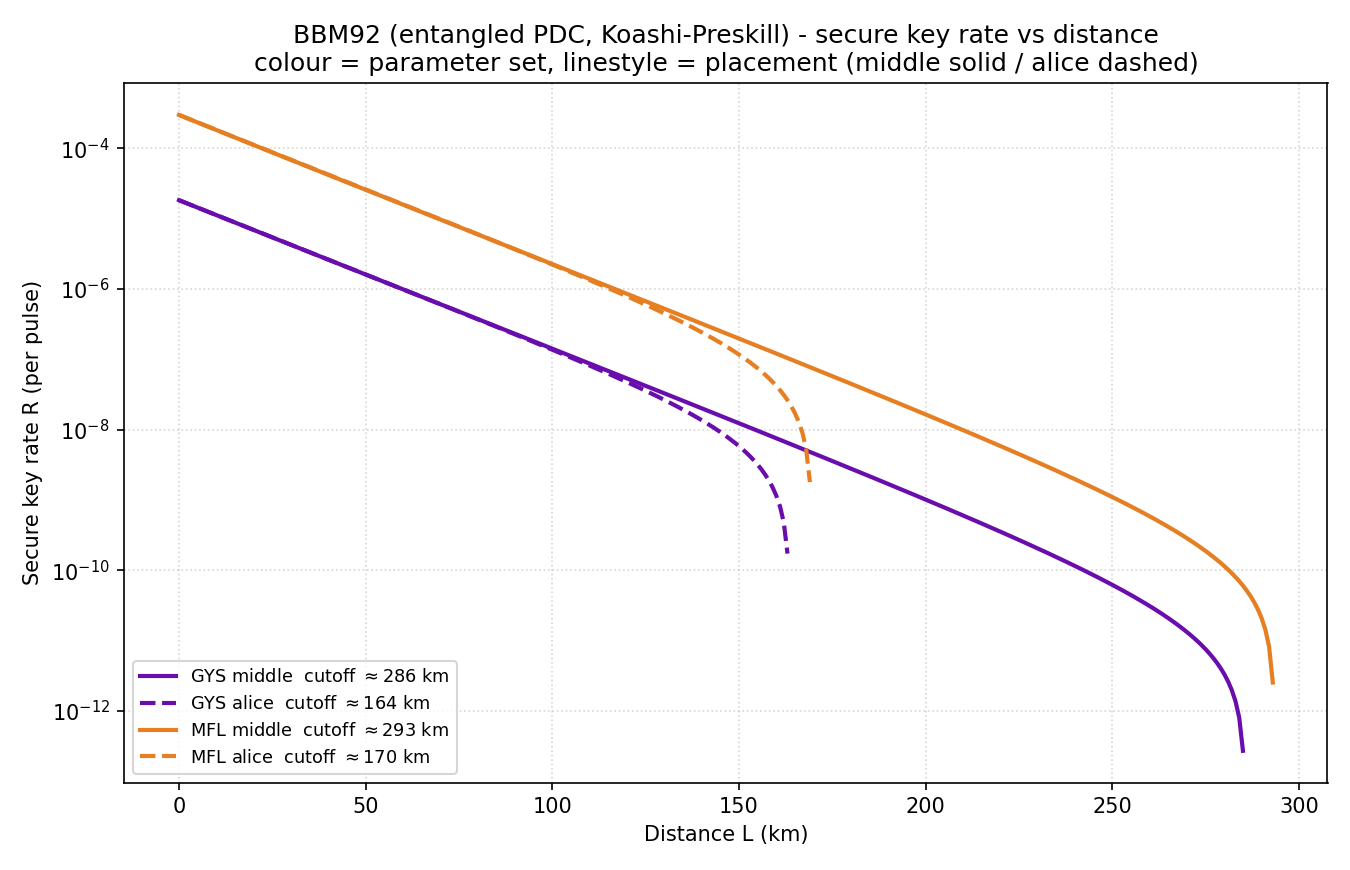
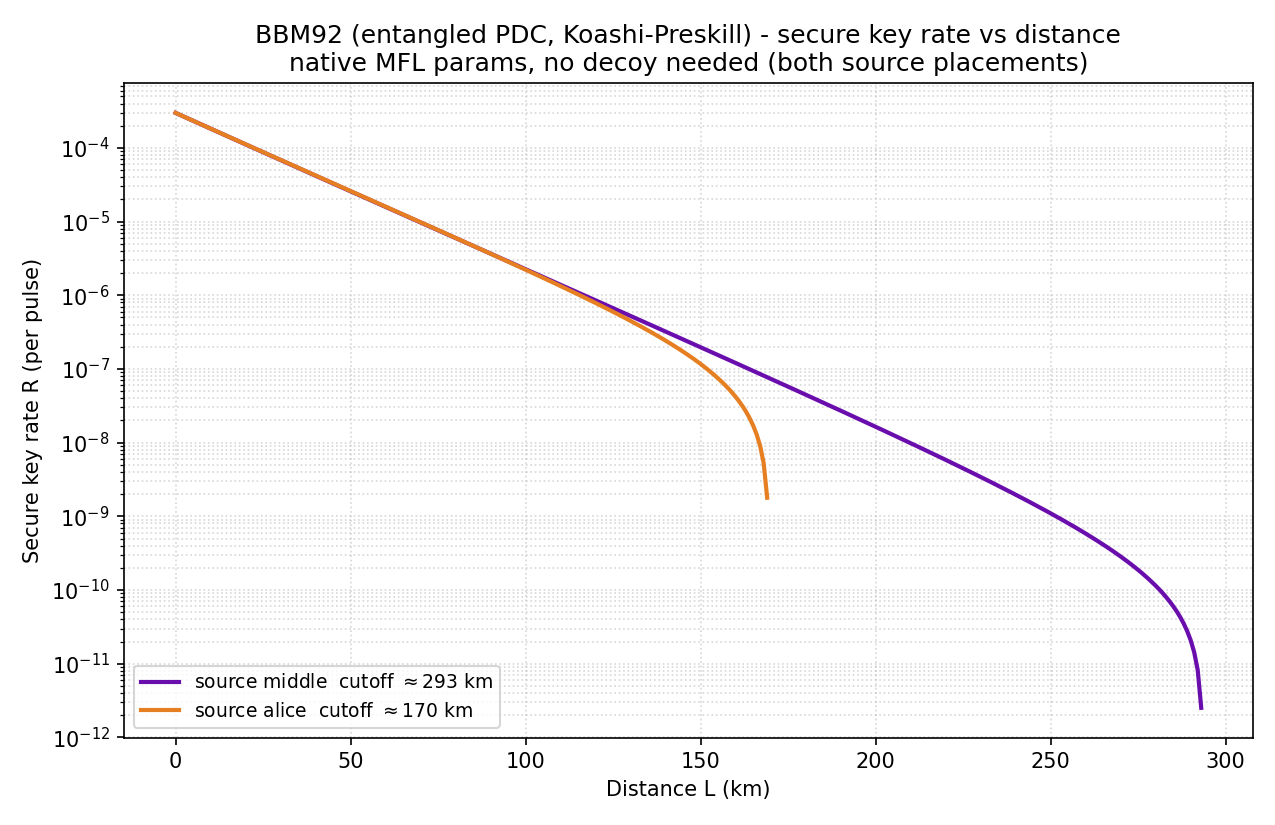
Graphs MFL-only for BBM92/E91; add GYS tables; big grid table gains BBM92 middle
BBM92 and E91 figures now show only the native MFL params (both placements), per
request. Each gains a rendered table (bbm92_table.png, e91_table.png) that DOES
include GYS, so the hardware effect stays available numerically off-plot.

Big grid table (grid_table.png) now has three rows: BB84 decoy, BBM92 alice,
BBM92 middle -- all mu-optimized, GYS/MFL super-columns. BBM92 middle reaches
286.5 (GYS) / 293.5 (MFL) km vs alice 170.9/174.5. Grid figure unchanged
(BB84 + BBM92 alice), as only the table was requested.

diff --git a/src/bbm92/sweep.py b/src/bbm92/sweep.py
@@ -1,15 +1,14 @@
 """
-Distance sweep + plot for BBM92 (entangled PDC, Koashi-Preskill rate).
+Distance sweep + plot + table for BBM92 (entangled PDC, Koashi-Preskill rate).
 
-Sweeps the single free variable -- distance L -- and plots the SECURE key rate
-R vs L for BOTH source placements (middle vs Alice) AND both parameter sets
-(GYS, MFL). mu, f, q are fixed at the model.py defaults (native BBM92 mu).
+Sweeps distance L. The FIGURE shows only the native MFL parameters (both source
+placements, middle vs Alice). The TABLE additionally reports the GYS parameter
+set, so the hardware effect is available numerically without cluttering the
+plot. mu, f, q are fixed at the model.py defaults (native BBM92 mu).
 
-No decoy curve here: BBM92 needs none -- the basis-independent source is
-intrinsically PNS-resistant (see model.py). Colour encodes the parameter set,
-linestyle the source geometry, so the figure shows two independent effects at
-once: hardware (GYS vs MFL) and loss geometry (middle reaches ~2x farther than
-Alice because dark counts compete per arm and middle halves each arm's loss).
+No decoy curve: BBM92 needs none -- the basis-independent source is intrinsically
+PNS-resistant (see model.py). Middle geometry reaches ~2x farther than Alice
+because dark counts compete per arm and middle halves each arm's loss.
 """
 
 import os
@@ -22,6 +21,7 @@ _SRC = os.path.dirname(os.path.dirname(os.path.abspath(__file__)))
 REPO_ROOT = os.path.dirname(_SRC)
 sys.path.insert(0, _SRC)
 OUTFILE = os.path.join(REPO_ROOT, "figures", "bbm92_key_rate.png")
+TABLE_OUTFILE = os.path.join(REPO_ROOT, "figures", "bbm92_table.png")
 
 from model import bbm92_key_rate
 from shared import GYS, MFL
@@ -47,34 +47,57 @@ def cutoff_distance(L_km, R):
     return L_km[i] + R[i] / (R[i] - R[i + 1]) * (L_km[i + 1] - L_km[i])
 
 
-# COLOUR encodes the parameter set, LINESTYLE encodes the source placement.
-CURVES = [
-    (GYS, "middle", "#6a0dad", "-"),
-    (GYS, "alice",  "#6a0dad", "--"),
-    (MFL, "middle", "#e67e22", "-"),
-    (MFL, "alice",  "#e67e22", "--"),
-]
+# Figure: NATIVE MFL only, both placements (colour distinguishes placement).
+GRAPH = [("middle", "#6a0dad", "-"), ("alice", "#e67e22", "-")]
 
 
 def plot_bbm92(L_km, outfile=OUTFILE):
-    """Plot all four curves on a log-y axis; mask R <= 0 so each ends at its cutoff."""
-    fig, ax = plt.subplots(figsize=(9.0, 5.8))
-    for params, placement, color, ls in CURVES:
-        R = sweep_bbm92(L_km, placement, params)
+    """Plot the two native-MFL curves on a log-y axis; mask R <= 0 at the cutoff."""
+    fig, ax = plt.subplots(figsize=(8.5, 5.5))
+    for placement, color, ls in GRAPH:
+        R = sweep_bbm92(L_km, placement, MFL)
         c = cutoff_distance(L_km, R)
         Rmask = np.where(R > 0, R, np.nan)
         ax.semilogy(L_km, Rmask, color=color, ls=ls, lw=2,
-                    label=f"{params.name} {placement}  cutoff $\\approx${c:.0f} km")
-        print(f"{params.name} @{placement}: cutoff ~ {c:.1f} km")
-
+                    label=f"source {placement}  cutoff $\\approx${c:.0f} km")
     ax.set_xlabel("Distance L (km)")
     ax.set_ylabel("Secure key rate R (per pulse)")
     ax.set_title("BBM92 (entangled PDC, Koashi-Preskill) - secure key rate vs distance\n"
-                 "colour = parameter set, linestyle = placement (middle solid / alice dashed)")
+                 "native MFL params, no decoy needed (both source placements)")
     ax.grid(True, which="both", ls=":", alpha=0.5)
-    ax.legend(loc="lower left", fontsize=8.5)
+    ax.legend(loc="lower left", fontsize=9)
     fig.tight_layout()
     fig.savefig(outfile, dpi=150)
+    print(f"saved {outfile}")
+    return fig
+
+
+def plot_table(L_km, outfile=TABLE_OUTFILE):
+    """Table: GYS and MFL, R(L=0) and the cutoff for each placement."""
+    col_labels = ["Params", "R(L=0)", "cutoff\n(middle)", "cutoff\n(alice)"]
+    cells = []
+    for params in (MFL, GYS):
+        R0 = bbm92_key_rate(0.0, "middle", eta_det=params.eta_det,
+                            ed=params.e_det, y0=params.dark)   # same at L=0 either placement
+        c_mid = cutoff_distance(L_km, sweep_bbm92(L_km, "middle", params))
+        c_ali = cutoff_distance(L_km, sweep_bbm92(L_km, "alice", params))
+        cells.append([params.name, f"{R0:.2e}", f"{c_mid:.1f} km", f"{c_ali:.1f} km"])
+
+    fig, ax = plt.subplots(figsize=(7.5, 1.7))
+    ax.axis("off")
+    tbl = ax.table(cellText=cells, colLabels=col_labels, loc="center", cellLoc="center")
+    tbl.auto_set_font_size(False)
+    tbl.set_fontsize(10)
+    tbl.scale(1.0, 2.2)
+    for (r, c), cell in tbl.get_celld().items():
+        if r == 0:
+            cell.set_facecolor("#6a0dad"); cell.set_text_props(color="white", weight="bold")
+        elif c == 0:
+            cell.set_text_props(weight="bold")
+    ax.set_title("BBM92 secure key rate & reach (native MFL vs GYS hardware)",
+                 fontsize=10, pad=10)
+    fig.tight_layout()
+    fig.savefig(outfile, dpi=150, bbox_inches="tight")
     print(f"saved {outfile}")
     return fig
 
@@ -82,3 +105,9 @@ def plot_bbm92(L_km, outfile=OUTFILE):
 if __name__ == "__main__":
     L_km = np.linspace(L_MIN_KM, L_MAX_KM, L_POINTS)
     plot_bbm92(L_km)
+    plot_table(L_km)
+    print("\nBBM92 cutoffs (km):")
+    for params in (MFL, GYS):
+        for placement in ("middle", "alice"):
+            c = cutoff_distance(L_km, sweep_bbm92(L_km, placement, params))
+            print(f"  {params.name} @{placement}: {c:.1f}")

diff --git a/src/e91/sweep.py b/src/e91/sweep.py
@@ -30,10 +30,11 @@ REPO_ROOT = os.path.dirname(_SRC)
 sys.path.insert(0, os.path.join(_SRC, "bbm92"))
 sys.path.insert(0, _SRC)
 
-from chsh import S_of_distance, S_TSIRELSON
+from chsh import S_of_distance, S_TSIRELSON, chsh_S, qber_bbm92
 from shared import GYS, MFL
 
 OUTFILE = os.path.join(REPO_ROOT, "figures", "e91_chsh_S.png")
+TABLE_OUTFILE = os.path.join(REPO_ROOT, "figures", "e91_table.png")
 
 L_MAX_KM = 360.0
 L_POINTS = 361
@@ -53,38 +54,68 @@ def s2_crossing(placement, params, lo=0.0, hi=500.0):
     return (lo + hi) / 2
 
 
-# COLOUR encodes the parameter set, LINESTYLE encodes the source placement:
-# middle (symmetric, each arm L/2 -- the canonical entanglement geometry) vs
-# alice (one-sided, Bob carries full L -- matches the BB84 grid geometry).
-CURVES = [
-    (GYS, "middle", "#6a0dad", "-"),
-    (GYS, "alice",  "#6a0dad", "--"),
-    (MFL, "middle", "#e67e22", "-"),
-    (MFL, "alice",  "#e67e22", "--"),
-]
+# Figure: NATIVE MFL only, both placements (colour distinguishes placement).
+GRAPH = [("middle", "#6a0dad", "-"), ("alice", "#e67e22", "-")]
 
 
-if __name__ == "__main__":
-    fig, ax = plt.subplots(figsize=(9.5, 6))
-
-    for params, placement, color, ls in CURVES:
-        S = np.array([S_of_distance(L, placement, params) for L in L_KM])
-        c_bell = s2_crossing(placement, params)
+def plot_S(outfile=OUTFILE):
+    """Plot the two native-MFL S(L) curves, with the S=2 and Tsirelson lines."""
+    fig, ax = plt.subplots(figsize=(9.0, 5.8))
+    for placement, color, ls in GRAPH:
+        S = np.array([S_of_distance(L, placement, MFL) for L in L_KM])
+        c_bell = s2_crossing(placement, MFL)
         ax.plot(L_KM, S, color=color, ls=ls, lw=2,
-                label=f"{params.name} {placement}   Bell $S{{=}}2\\approx${c_bell:.0f} km")
-        print(f"{params.name} @{placement}: Bell S=2 cutoff {c_bell:.1f} km")
-
+                label=f"source {placement}   Bell $S{{=}}2\\approx${c_bell:.0f} km")
     ax.axhline(2.0, color="#c00000", ls="--", lw=1.3, label="classical bound $S=2$")
     ax.axhline(S_TSIRELSON, color="#888888", ls=":", lw=1,
                label="Tsirelson $2\\sqrt{2}$ (ideal singlet)")
-
     ax.set_xlabel("Distance L (km)")
     ax.set_ylabel("CHSH value S")
-    ax.set_title("E91 as S(L): CHSH value vs distance (fixed $\\mu$)\n"
-                 "colour = parameter set, linestyle = placement (middle solid / alice dashed)")
+    ax.set_title("E91 as S(L): CHSH value vs distance (native MFL params, fixed $\\mu$)\n"
+                 "both source placements; $S=2$ is a Bell cutoff, NOT a key-rate cutoff")
     ax.set_ylim(1.4, 2.95)
     ax.grid(True, ls=":", alpha=0.5)
     ax.legend(loc="lower left", fontsize=8.5)
     fig.tight_layout()
-    fig.savefig(OUTFILE, dpi=150)
-    print(f"saved {OUTFILE}")
+    fig.savefig(outfile, dpi=150)
+    print(f"saved {outfile}")
+    return fig
+
+
+def plot_table(outfile=TABLE_OUTFILE):
+    """Table: GYS and MFL, S(L=0) and the S=2 Bell cutoff for each placement."""
+    col_labels = ["Params", "S(L=0)", "$S{=}2$\n(middle)", "$S{=}2$\n(alice)"]
+    cells = []
+    for params in (MFL, GYS):
+        S0 = chsh_S(qber_bbm92(0.0, "middle", params))   # same at L=0 either placement
+        c_mid = s2_crossing("middle", params)
+        c_ali = s2_crossing("alice", params)
+        cells.append([params.name, f"{S0:.3f}", f"{c_mid:.1f} km", f"{c_ali:.1f} km"])
+
+    fig, ax = plt.subplots(figsize=(7.5, 1.7))
+    ax.axis("off")
+    tbl = ax.table(cellText=cells, colLabels=col_labels, loc="center", cellLoc="center")
+    tbl.auto_set_font_size(False)
+    tbl.set_fontsize(10)
+    tbl.scale(1.0, 2.2)
+    for (r, c), cell in tbl.get_celld().items():
+        if r == 0:
+            cell.set_facecolor("#6a0dad"); cell.set_text_props(color="white", weight="bold")
+        elif c == 0:
+            cell.set_text_props(weight="bold")
+    ax.set_title("E91 CHSH value & S=2 Bell cutoff (native MFL vs GYS hardware)\n"
+                 "fair-sampling assumption; depolarizing S<->Q map [Acin et al.]",
+                 fontsize=9.5, pad=10)
+    fig.tight_layout()
+    fig.savefig(outfile, dpi=150, bbox_inches="tight")
+    print(f"saved {outfile}")
+    return fig
+
+
+if __name__ == "__main__":
+    plot_S()
+    plot_table()
+    print("\nE91 S=2 Bell cutoffs (km):")
+    for params in (MFL, GYS):
+        for placement in ("middle", "alice"):
+            print(f"  {params.name} @{placement}: {s2_crossing(placement, params):.1f}")

diff --git a/src/grid.py b/src/grid.py
@@ -63,10 +63,10 @@ def bb84_best(L, params):
         BB84_MU_MIN, BB84_MU_MAX, MU_NGRID)
 
 
-def bbm92_best(L, params):
-    """Best BBM92 (source@Alice) secure rate at L over mu -> (R_best, mu_best)."""
+def bbm92_best(L, params, placement="alice"):
+    """Best BBM92 secure rate at L over mu for a source placement -> (R_best, mu_best)."""
     return optimize_mu(
-        lambda mu: bbm92_key_rate(L, "alice", mu=mu, eta_det=params.eta_det,
+        lambda mu: bbm92_key_rate(L, placement, mu=mu, eta_det=params.eta_det,
                                   ed=params.e_det, y0=params.dark),
         BBM92_MU_MIN, BBM92_MU_MAX, MU_NGRID)
 
@@ -113,7 +113,8 @@ def plot_table(results, outfile=TABLE_OUTFILE):
     headline quantities R(L=0), optimized mu*(0), and max secure distance.
     """
     protocols = [("BB84 decoy", "BB84 (decoy)"),
-                 ("BBM92 @alice", "BBM92 (no decoy)")]
+                 ("BBM92 @alice", "BBM92 (alice)"),
+                 ("BBM92 @middle", "BBM92 (middle)")]
     col_labels = ["Protocol",
                   "R(L=0)\nGYS", "$\\mu^*$(0)\nGYS", "$d_{max}$\nGYS",
                   "R(L=0)\nMFL", "$\\mu^*$(0)\nMFL", "$d_{max}$\nMFL"]
@@ -126,7 +127,7 @@ def plot_table(results, outfile=TABLE_OUTFILE):
                       f"{rG[0]:.2e}", f"{muG[0]:.3f}", f"{cG:.1f} km",
                       f"{rM[0]:.2e}", f"{muM[0]:.3f}", f"{cM:.1f} km"])
 
-    fig, ax = plt.subplots(figsize=(10, 2.0))
+    fig, ax = plt.subplots(figsize=(10, 2.5))
     ax.axis("off")
     tbl = ax.table(cellText=cells, colLabels=col_labels, loc="center",
                    cellLoc="center", colLoc="center")
@@ -180,11 +181,14 @@ def plot_grid(results, outfile=OUTFILE):
 
 
 if __name__ == "__main__":
+    bbm92_middle = lambda L, p: bbm92_best(L, p, "middle")
     cells = [
         ("BB84 decoy", GYS, bb84_best),
         ("BB84 decoy", MFL, bb84_best),
         ("BBM92 @alice", GYS, bbm92_best),
         ("BBM92 @alice", MFL, bbm92_best),
+        ("BBM92 @middle", GYS, bbm92_middle),
+        ("BBM92 @middle", MFL, bbm92_middle),
     ]
 
     print("Milestone 6d grid -- mu optimized per distance for every cell\n")
